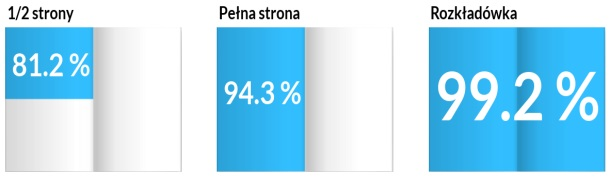
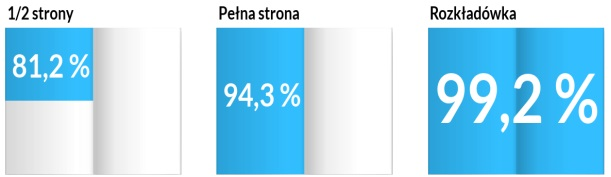
ch

diff --git a/kod.py b/kod.py
@@ -71,7 +71,7 @@ df = df.applymap(lambda x: str('{:,.1f}%'.format(x)).replace('.',','))
 df.iloc[6,2] = '-'
 
 if Płeć == 'Mężczyźni':
-    df.iloc[2,2] = '-'
+    df.iloc[5,2] = '-'
 df = df.reset_index()
 df.index = df.index  + 1
 
